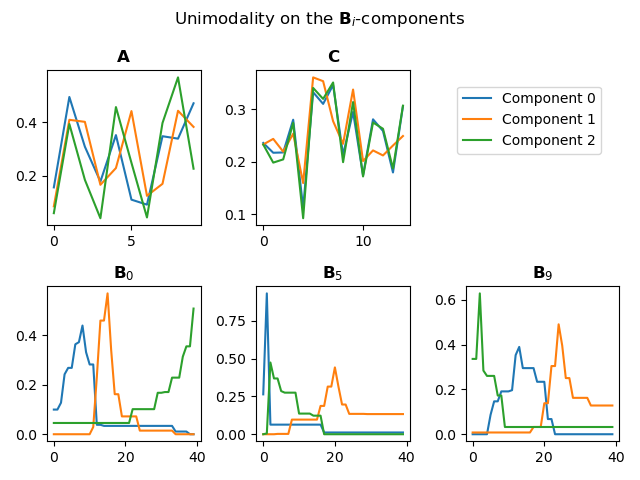
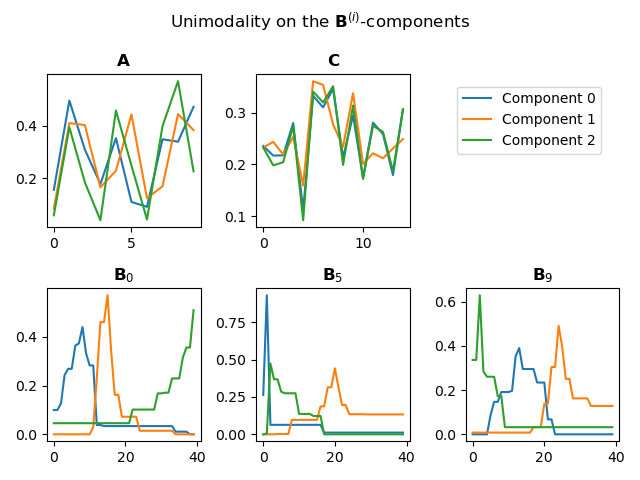
Fixed some notation inconsistencies

diff --git a/docs/auto_examples/plot_custom_penalty.py b/docs/auto_examples/plot_custom_penalty.py
@@ -46,7 +46,7 @@ def normalize(x):
 # Generate simulated data that follows the PARAFAC2 constraint
 # ^^^^^^^^^^^^^^^^^^^^^^^^^^^^^^^^^^^^^^^^^^^^^^^^^^^^^^^^^^^^
 # We start by generating some components, for the :math:`\mathbf{A}` and :math:`\mathbf{C}` components, we use uniformly
-# distributed component vector elements. For the :math:`\mathbf{B}_i`-components, we create two unimodal vectors and one
+# distributed component vector elements. For the :math:`\mathbf{B}^{(i)}`-components, we create two unimodal vectors and one
 # component vector with uniformly distributed elements, and shift these vectors for each :math:`i`.
 
 # Random uniform components
@@ -100,7 +100,7 @@ fig.suptitle("Simulated components")
 plt.show()
 
 ###############################################################################
-# For the :math:`\mathbf{B}_i`-s, we see that component 0 and 1 are unimodal, while component 2 is not.
+# For the :math:`\mathbf{B}^{(i)}`-s, we see that component 0 and 1 are unimodal, while component 2 is not.
 
 ###############################################################################
 # Create the coupled matrix factorization, simulated data matrices and add noise
@@ -121,7 +121,7 @@ noisy_matrices = [M + N * noise_level * tl.norm(M) / tl.norm(N) for M, N in zip(
 # to use.
 #
 # Since the components are non-negative, it makes sense to fit a non-negative PARAFAC2 model, however,
-# we also know that two of the :math:`\mathbf{B}_i`-component vectors are unimodal, so we first try with
+# we also know that two of the :math:`\mathbf{B}^{(i)}`-component vectors are unimodal, so we first try with
 # a fully unimodal decomposition.
 
 from matcouply.penalties import NonNegativity, Unimodality
@@ -195,13 +195,13 @@ axes[1, 2].plot(normalize(out_B_is[-1]))
 axes[1, 2].set_title(f"$\\mathbf{{B}}_{{{I-1}}}$")
 fig.legend(["Component 0", "Component 1", "Component 2"], bbox_to_anchor=(0.95, 0.75), loc="center right")
 
-fig.suptitle(r"Unimodality on the $\mathbf{B}_i$-components")
+fig.suptitle(r"Unimodality on the $\mathbf{B}^{(i)}$-components")
 plt.show()
 
 ###############################################################################
 # We see that the :math:`\mathbf{C}`-component vectors all follow the same pattern and that the the
 # :math:`\mathbf{A}`-component vectors all follow a similar pattern. This is not the case with the real,
-# uncorrelated random, components. The :math:`\mathbf{B}_i`-component vectors also follow a strange pattern
+# uncorrelated random, components. The :math:`\mathbf{B}^{(i)}`-component vectors also follow a strange pattern
 # with peaks jumping forwards and backwards, which we know are not the case with the real components either.
 #
 # However, this strange behaviour is not too surprising, considering that there are only two uniomdal component
@@ -306,10 +306,10 @@ axes[1, 1].set_title(f"$\\mathbf{{B}}_{{{I//2}}}$")
 axes[1, 2].plot(normalize(out_B_is[-1]))
 axes[1, 2].set_title(f"$\\mathbf{{B}}_{{{I-1}}}$")
 fig.legend(["Component 0", "Component 1", "Component 2"], bbox_to_anchor=(0.95, 0.75), loc="center right")
-fig.suptitle(r"Custom uniomdality on the $\mathbf{B}_i$-components")
+fig.suptitle(r"Custom uniomdality on the $\mathbf{B}^{(i)}$-components")
 plt.show()
 
 ###############################################################################
 # We see that the model finds much more sensible component vectors. The :math:`\mathbf{A}`- and
-# :math:`\mathbf{C}`-component vectors no longer seem correlated, and the peaks of the :math:`\mathbf{B}_i`-component
+# :math:`\mathbf{C}`-component vectors no longer seem correlated, and the peaks of the :math:`\mathbf{B}^{(i)}`-component
 # vectors no longer jump around.

diff --git a/examples/plot_custom_penalty.py b/examples/plot_custom_penalty.py
@@ -46,7 +46,7 @@ def normalize(x):
 # Generate simulated data that follows the PARAFAC2 constraint
 # ^^^^^^^^^^^^^^^^^^^^^^^^^^^^^^^^^^^^^^^^^^^^^^^^^^^^^^^^^^^^
 # We start by generating some components, for the :math:`\mathbf{A}` and :math:`\mathbf{C}` components, we use uniformly
-# distributed component vector elements. For the :math:`\mathbf{B}_i`-components, we create two unimodal vectors and one
+# distributed component vector elements. For the :math:`\mathbf{B}^{(i)}`-components, we create two unimodal vectors and one
 # component vector with uniformly distributed elements, and shift these vectors for each :math:`i`.
 
 # Random uniform components
@@ -100,7 +100,7 @@ fig.suptitle("Simulated components")
 plt.show()
 
 ###############################################################################
-# For the :math:`\mathbf{B}_i`-s, we see that component 0 and 1 are unimodal, while component 2 is not.
+# For the :math:`\mathbf{B}^{(i)}`-s, we see that component 0 and 1 are unimodal, while component 2 is not.
 
 ###############################################################################
 # Create the coupled matrix factorization, simulated data matrices and add noise
@@ -121,7 +121,7 @@ noisy_matrices = [M + N * noise_level * tl.norm(M) / tl.norm(N) for M, N in zip(
 # to use.
 #
 # Since the components are non-negative, it makes sense to fit a non-negative PARAFAC2 model, however,
-# we also know that two of the :math:`\mathbf{B}_i`-component vectors are unimodal, so we first try with
+# we also know that two of the :math:`\mathbf{B}^{(i)}`-component vectors are unimodal, so we first try with
 # a fully unimodal decomposition.
 
 from matcouply.penalties import NonNegativity, Unimodality
@@ -195,13 +195,13 @@ axes[1, 2].plot(normalize(out_B_is[-1]))
 axes[1, 2].set_title(f"$\\mathbf{{B}}_{{{I-1}}}$")
 fig.legend(["Component 0", "Component 1", "Component 2"], bbox_to_anchor=(0.95, 0.75), loc="center right")
 
-fig.suptitle(r"Unimodality on the $\mathbf{B}_i$-components")
+fig.suptitle(r"Unimodality on the $\mathbf{B}^{(i)}$-components")
 plt.show()
 
 ###############################################################################
 # We see that the :math:`\mathbf{C}`-component vectors all follow the same pattern and that the the
 # :math:`\mathbf{A}`-component vectors all follow a similar pattern. This is not the case with the real,
-# uncorrelated random, components. The :math:`\mathbf{B}_i`-component vectors also follow a strange pattern
+# uncorrelated random, components. The :math:`\mathbf{B}^{(i)}`-component vectors also follow a strange pattern
 # with peaks jumping forwards and backwards, which we know are not the case with the real components either.
 #
 # However, this strange behaviour is not too surprising, considering that there are only two uniomdal component
@@ -306,10 +306,10 @@ axes[1, 1].set_title(f"$\\mathbf{{B}}_{{{I//2}}}$")
 axes[1, 2].plot(normalize(out_B_is[-1]))
 axes[1, 2].set_title(f"$\\mathbf{{B}}_{{{I-1}}}$")
 fig.legend(["Component 0", "Component 1", "Component 2"], bbox_to_anchor=(0.95, 0.75), loc="center right")
-fig.suptitle(r"Custom uniomdality on the $\mathbf{B}_i$-components")
+fig.suptitle(r"Custom uniomdality on the $\mathbf{B}^{(i)}$-components")
 plt.show()
 
 ###############################################################################
 # We see that the model finds much more sensible component vectors. The :math:`\mathbf{A}`- and
-# :math:`\mathbf{C}`-component vectors no longer seem correlated, and the peaks of the :math:`\mathbf{B}_i`-component
+# :math:`\mathbf{C}`-component vectors no longer seem correlated, and the peaks of the :math:`\mathbf{B}^{(i)}`-component
 # vectors no longer jump around.

diff --git a/docs/auto_examples/sg_execution_times.rst b/docs/auto_examples/sg_execution_times.rst
@@ -5,16 +5,16 @@
 
 Computation times
 =================
-**07:30.362** total execution time for **auto_examples** files:
+**00:02.544** total execution time for **auto_examples** files:
 
 +---------------------------------------------------------------------------------------------------------------------------------------+-----------+--------+
-| :ref:`sphx_glr_auto_examples_plot_custom_penalty.py` (``plot_custom_penalty.py``)                                                     | 02:17.045 | 0.0 MB |
+| :ref:`sphx_glr_auto_examples_plot_custom_penalty.py` (``plot_custom_penalty.py``)                                                     | 00:02.544 | 0.0 MB |
 +---------------------------------------------------------------------------------------------------------------------------------------+-----------+--------+
-| :ref:`sphx_glr_auto_examples_plot_examining_different_number_of_components.py` (``plot_examining_different_number_of_components.py``) | 01:33.503 | 0.0 MB |
+| :ref:`sphx_glr_auto_examples_plot_bikesharing.py` (``plot_bikesharing.py``)                                                           | 00:00.000 | 0.0 MB |
 +---------------------------------------------------------------------------------------------------------------------------------------+-----------+--------+
-| :ref:`sphx_glr_auto_examples_plot_semiconductor_etch_analysis.py` (``plot_semiconductor_etch_analysis.py``)                           | 01:26.573 | 0.0 MB |
+| :ref:`sphx_glr_auto_examples_plot_examining_different_number_of_components.py` (``plot_examining_different_number_of_components.py``) | 00:00.000 | 0.0 MB |
 +---------------------------------------------------------------------------------------------------------------------------------------+-----------+--------+
-| :ref:`sphx_glr_auto_examples_plot_bikesharing.py` (``plot_bikesharing.py``)                                                           | 01:25.954 | 0.0 MB |
+| :ref:`sphx_glr_auto_examples_plot_semiconductor_etch_analysis.py` (``plot_semiconductor_etch_analysis.py``)                           | 00:00.000 | 0.0 MB |
 +---------------------------------------------------------------------------------------------------------------------------------------+-----------+--------+
-| :ref:`sphx_glr_auto_examples_plot_simulated_nonnegative.py` (``plot_simulated_nonnegative.py``)                                       | 00:47.288 | 0.0 MB |
+| :ref:`sphx_glr_auto_examples_plot_simulated_nonnegative.py` (``plot_simulated_nonnegative.py``)                                       | 00:00.000 | 0.0 MB |
 +---------------------------------------------------------------------------------------------------------------------------------------+-----------+--------+
